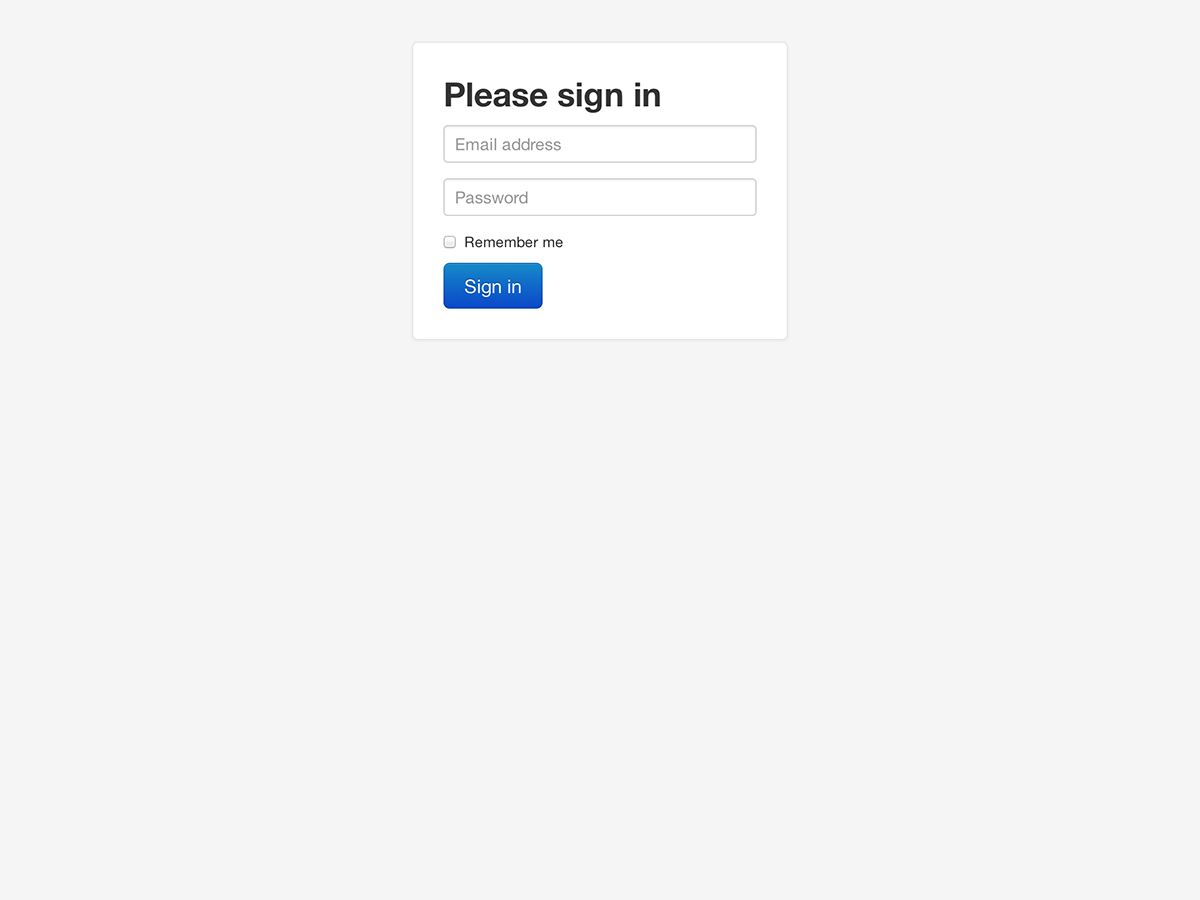
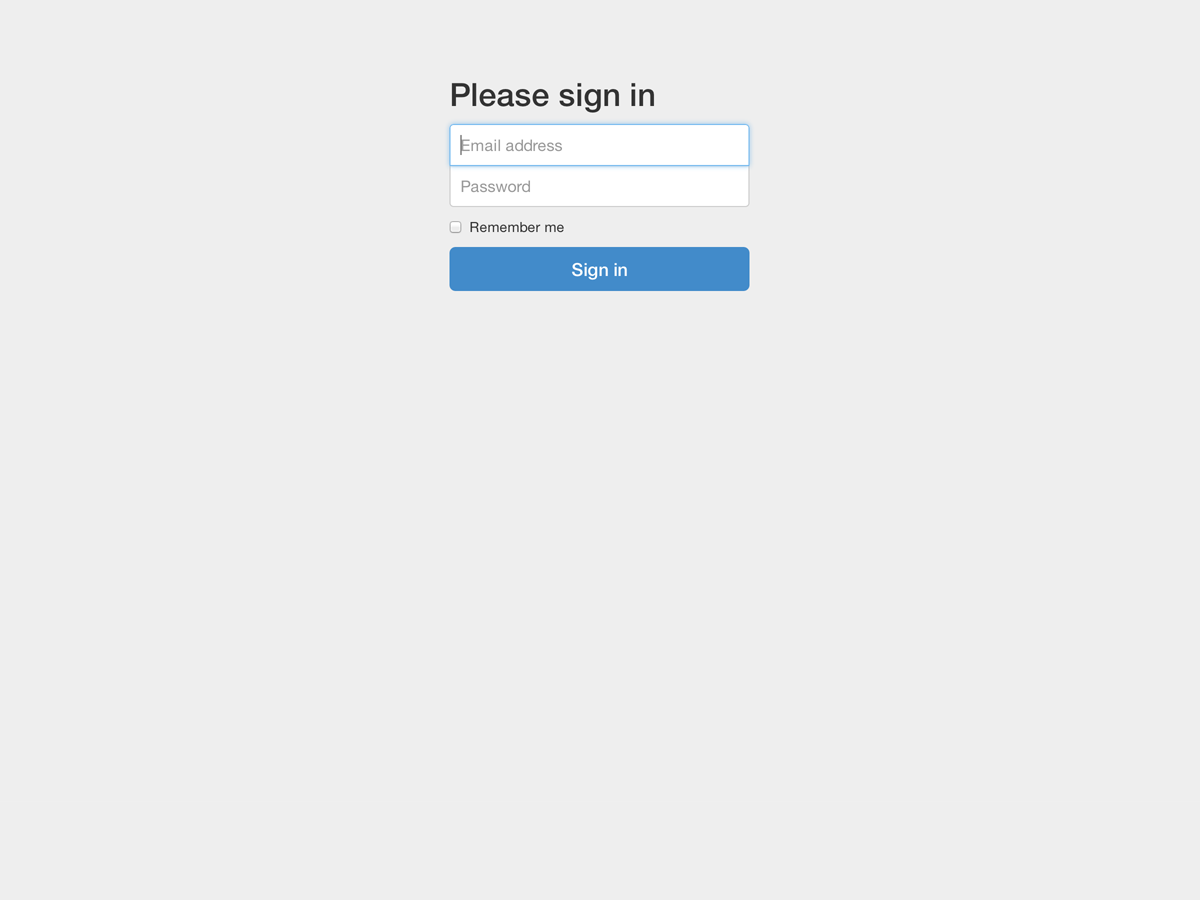
Docs examples update
* Remove unused fluid image
* Add image, link, and description for new grid example
* Update sign in example image

Changed region(s): [[0.37, 0.0933, 0.6475, 0.3422]]

diff --git a/docs/docs.html b/docs/docs.html
@@ -112,14 +112,21 @@ title: Bootstrap Documentation
           <img src="/assets/img/examples/bootstrap-example-starter.png" alt="">
         </a>
         <h4>Starter template</h4>
-        <p>A barebones HTML document with all the Bootstrap CSS and JavaScript included.</p>
+        <p>A barebones HTML page with Bootstrap's CSS and JavaScript included.</p>
+      </div>
+      <div class="col-span-4">
+        <a class="thumbnail" href="/examples/grid/" target="_blank">
+          <img src="/assets/img/examples/bootstrap-example-grid.png" alt="">
+        </a>
+        <h4>Basic grid layouts</h4>
+        <p>Simple grid layouts to familiarize you with using the Bootstrap grid system.</p>
       </div>
       <div class="col-span-4">
         <a class="thumbnail" href="/examples/jumbotron/" target="_blank">
           <img src="/assets/img/examples/bootstrap-example-marketing.png" alt="">
         </a>
         <h4>Basic marketing site</h4>
-        <p>Featuring a hero unit for a primary message and three supporting elements.</p>
+        <p>Features a jumbotron for primary message and three supporting elements.</p>
       </div>
       <div class="col-span-4">
         <a class="thumbnail" href="/examples/jumbotron-narrow/" target="_blank">
@@ -259,7 +266,6 @@ title: Bootstrap Documentation
 
     <h3>Removing potential bloat</h3>
     <p>Not all sites and applications need to make use of everything Bootstrap has to offer, especially in production environments where bandwidth literally becomes a financial issue. We encourage folks to remove whatever is unused with our <a href="./customizer/">Customizer</a>.</p>
-    <p>**img**</p>
     <p>Using the Customizer, simply uncheck any component, feature, or asset you don't need. Hit download and swap out the default Bootstrap files with these newly customized ones. You'll get vanilla Bootstrap, but without the features *you* deem unnecessary. All custom builds include compiled and minified versions, so use whichever works for you.</p>
 
   </div>

diff --git a/docs/assets/css/docs.css b/docs/assets/css/docs.css
@@ -21,6 +21,10 @@ body {
 .bs-docs-container {
   max-width: 860px;
 }
+.bs-docs-container .row {
+  margin-left: -15px;
+  margin-right: -15px;
+}
 
 /*  */
 .bs-docs-footer {
@@ -215,15 +219,15 @@ section > ul li {
   left: 0;
   bottom: 0;
   width: 240px;
-  background-color: #f5f5f5;
   overflow-y: scroll;
   text-shadow: 0 1px 0 #fff;
-  box-shadow: inset -1px 0 0 #e5e5e5;
+  background-color: #f5f5f5;
+  border-right: 1px solid #e5e5e5;
 }
 
 /* Nav: first level */
 .bs-docs-sidebar > .nav {
-  margin: 0 0 25px;
+  margin: 0 -1px 25px 0;
 }
 .bs-docs-sidebar .nav > li > a {
   display: block;